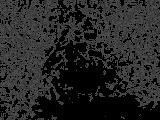
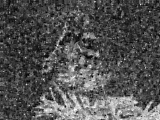
fix coordinate

diff --git a/dip2_py/dip2.py b/dip2_py/dip2.py
@@ -166,11 +166,12 @@ def nlm_filter(src: np.ndarray, search_size: int, sigma: float) -> np.ndarray:
         for x in range(width):
 
             # crop search_window
-            search_window = padded_src[0:y+search_size, 0:x+search_size]
+            search_window = padded_src[y:y+search_size, x:x+search_size]
             padded_search_window = np.pad(search_window, (search_window_pad_size, search_window_pad_size), mode="reflect")
 
-            # center path
-            center_patch = padded_search_window[y:(y+patch_size), x:(x+patch_size)]
+            # center patch
+            # todo :
+            center_patch = padded_search_window[0:patch_size, 0:patch_size]
             center_mean = center_patch.mean()
 
             weight_sum = 0.0
@@ -231,9 +232,9 @@ def denoise_image(
 
     if noise_reduction_algorithm is NoiseReductionAlgorithm.NR_NLM_FILTER:
         if noise_type is NoiseType.NOISE_TYPE_1:
-            return nlm_filter(src, 5, 1.0)
+            return nlm_filter(src, 5, 20.0)
         if noise_type is NoiseType.NOISE_TYPE_2:
-            return nlm_filter(src, 5, 1.0)
+            return nlm_filter(src, 5, 20.0)
         raise ValueError("Unhandled noise type!")
 
     raise ValueError("Unhandled filter type!")
